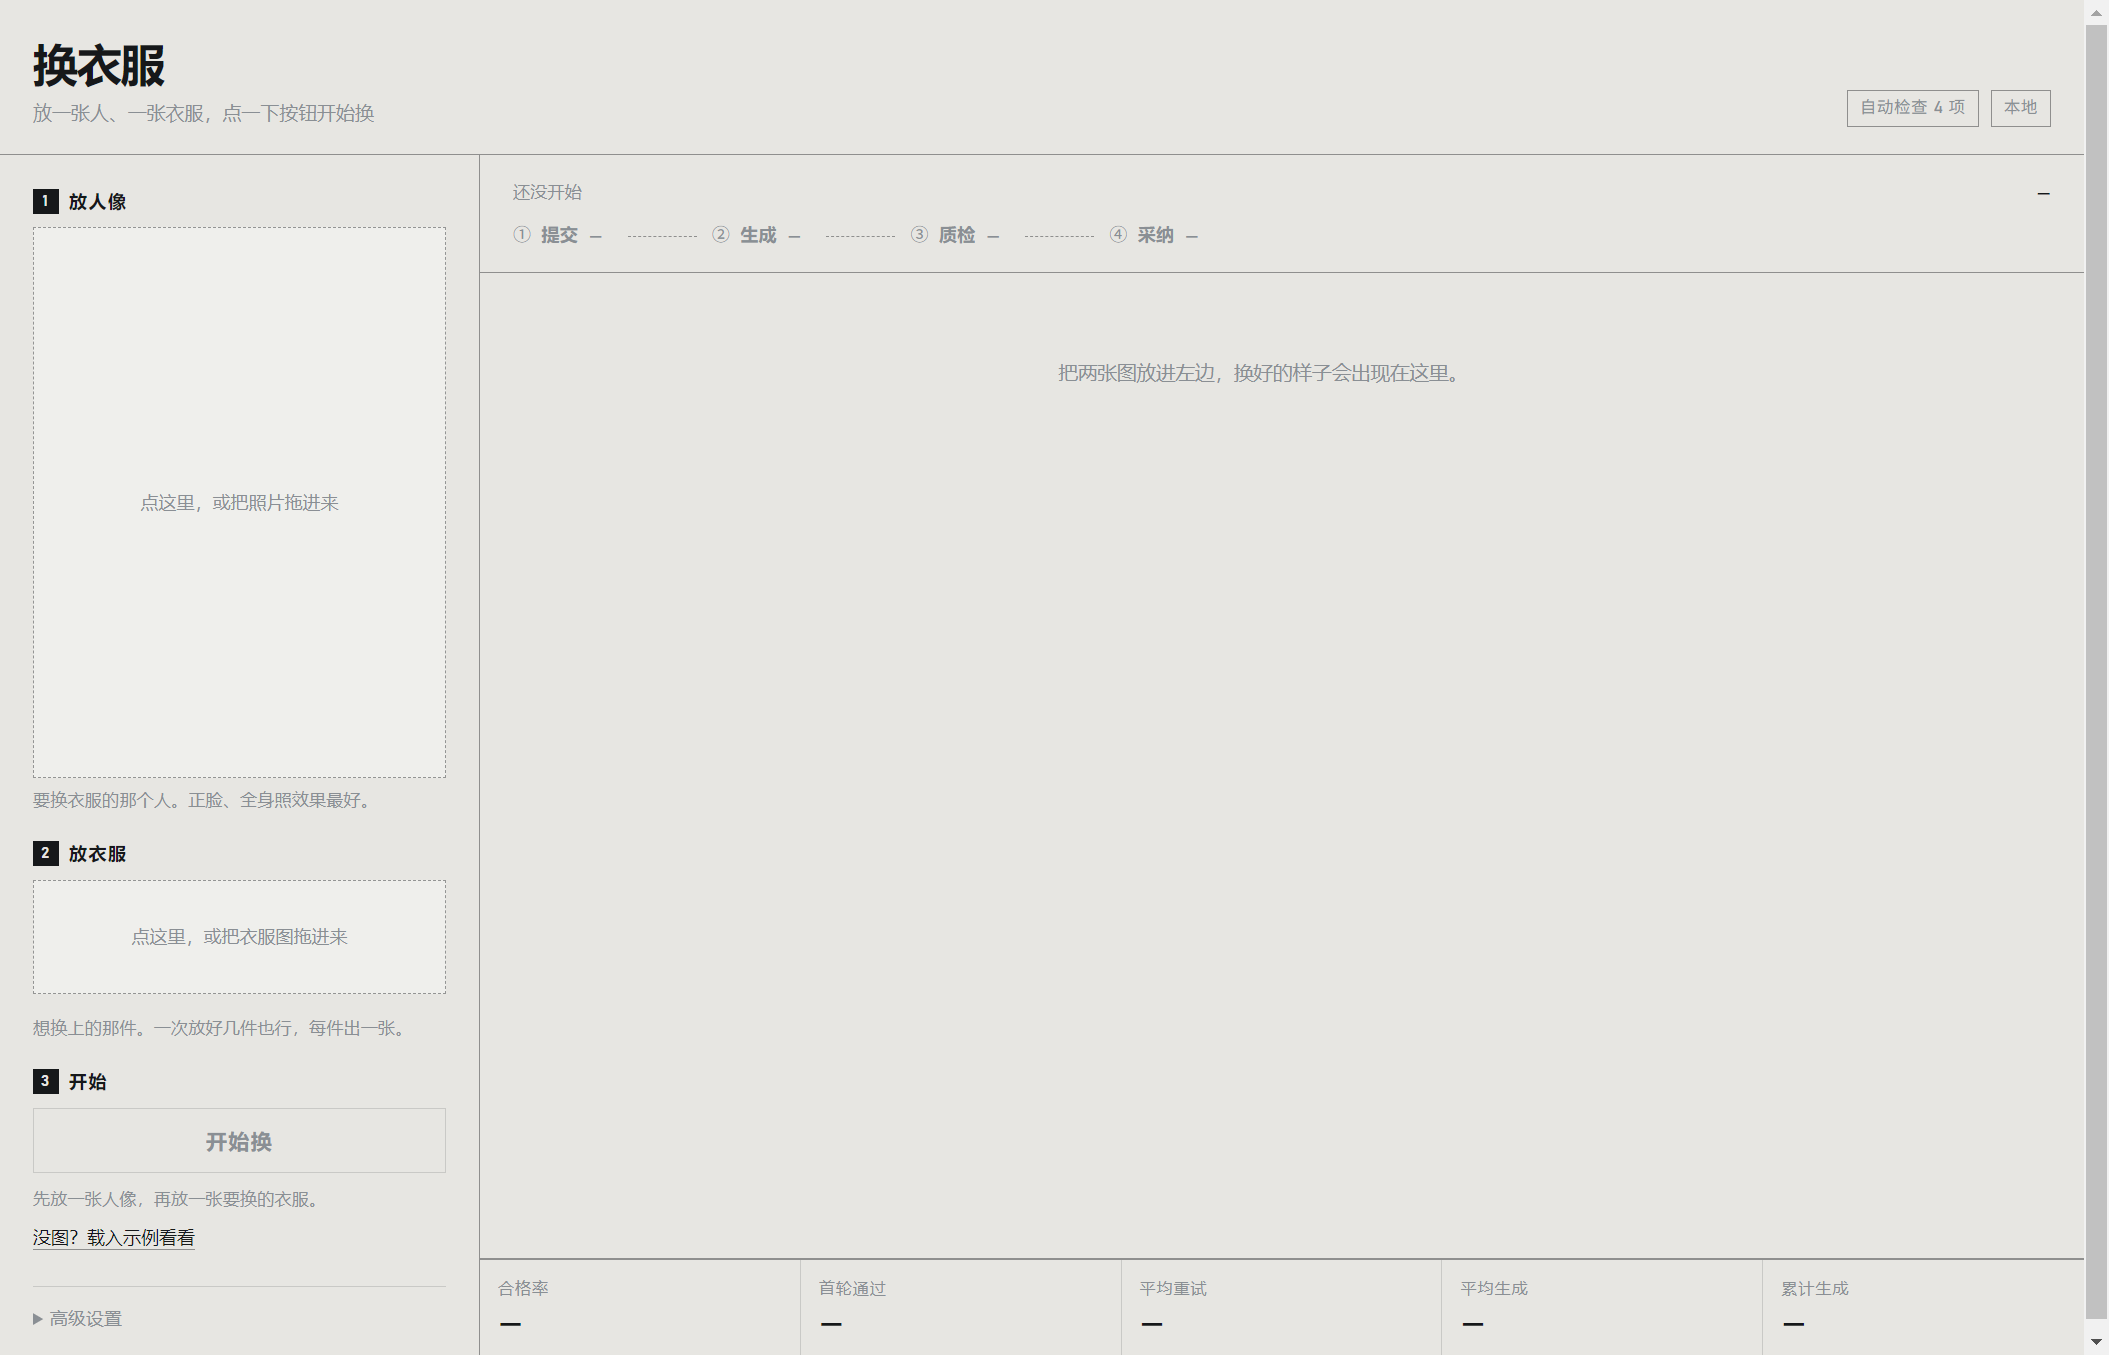
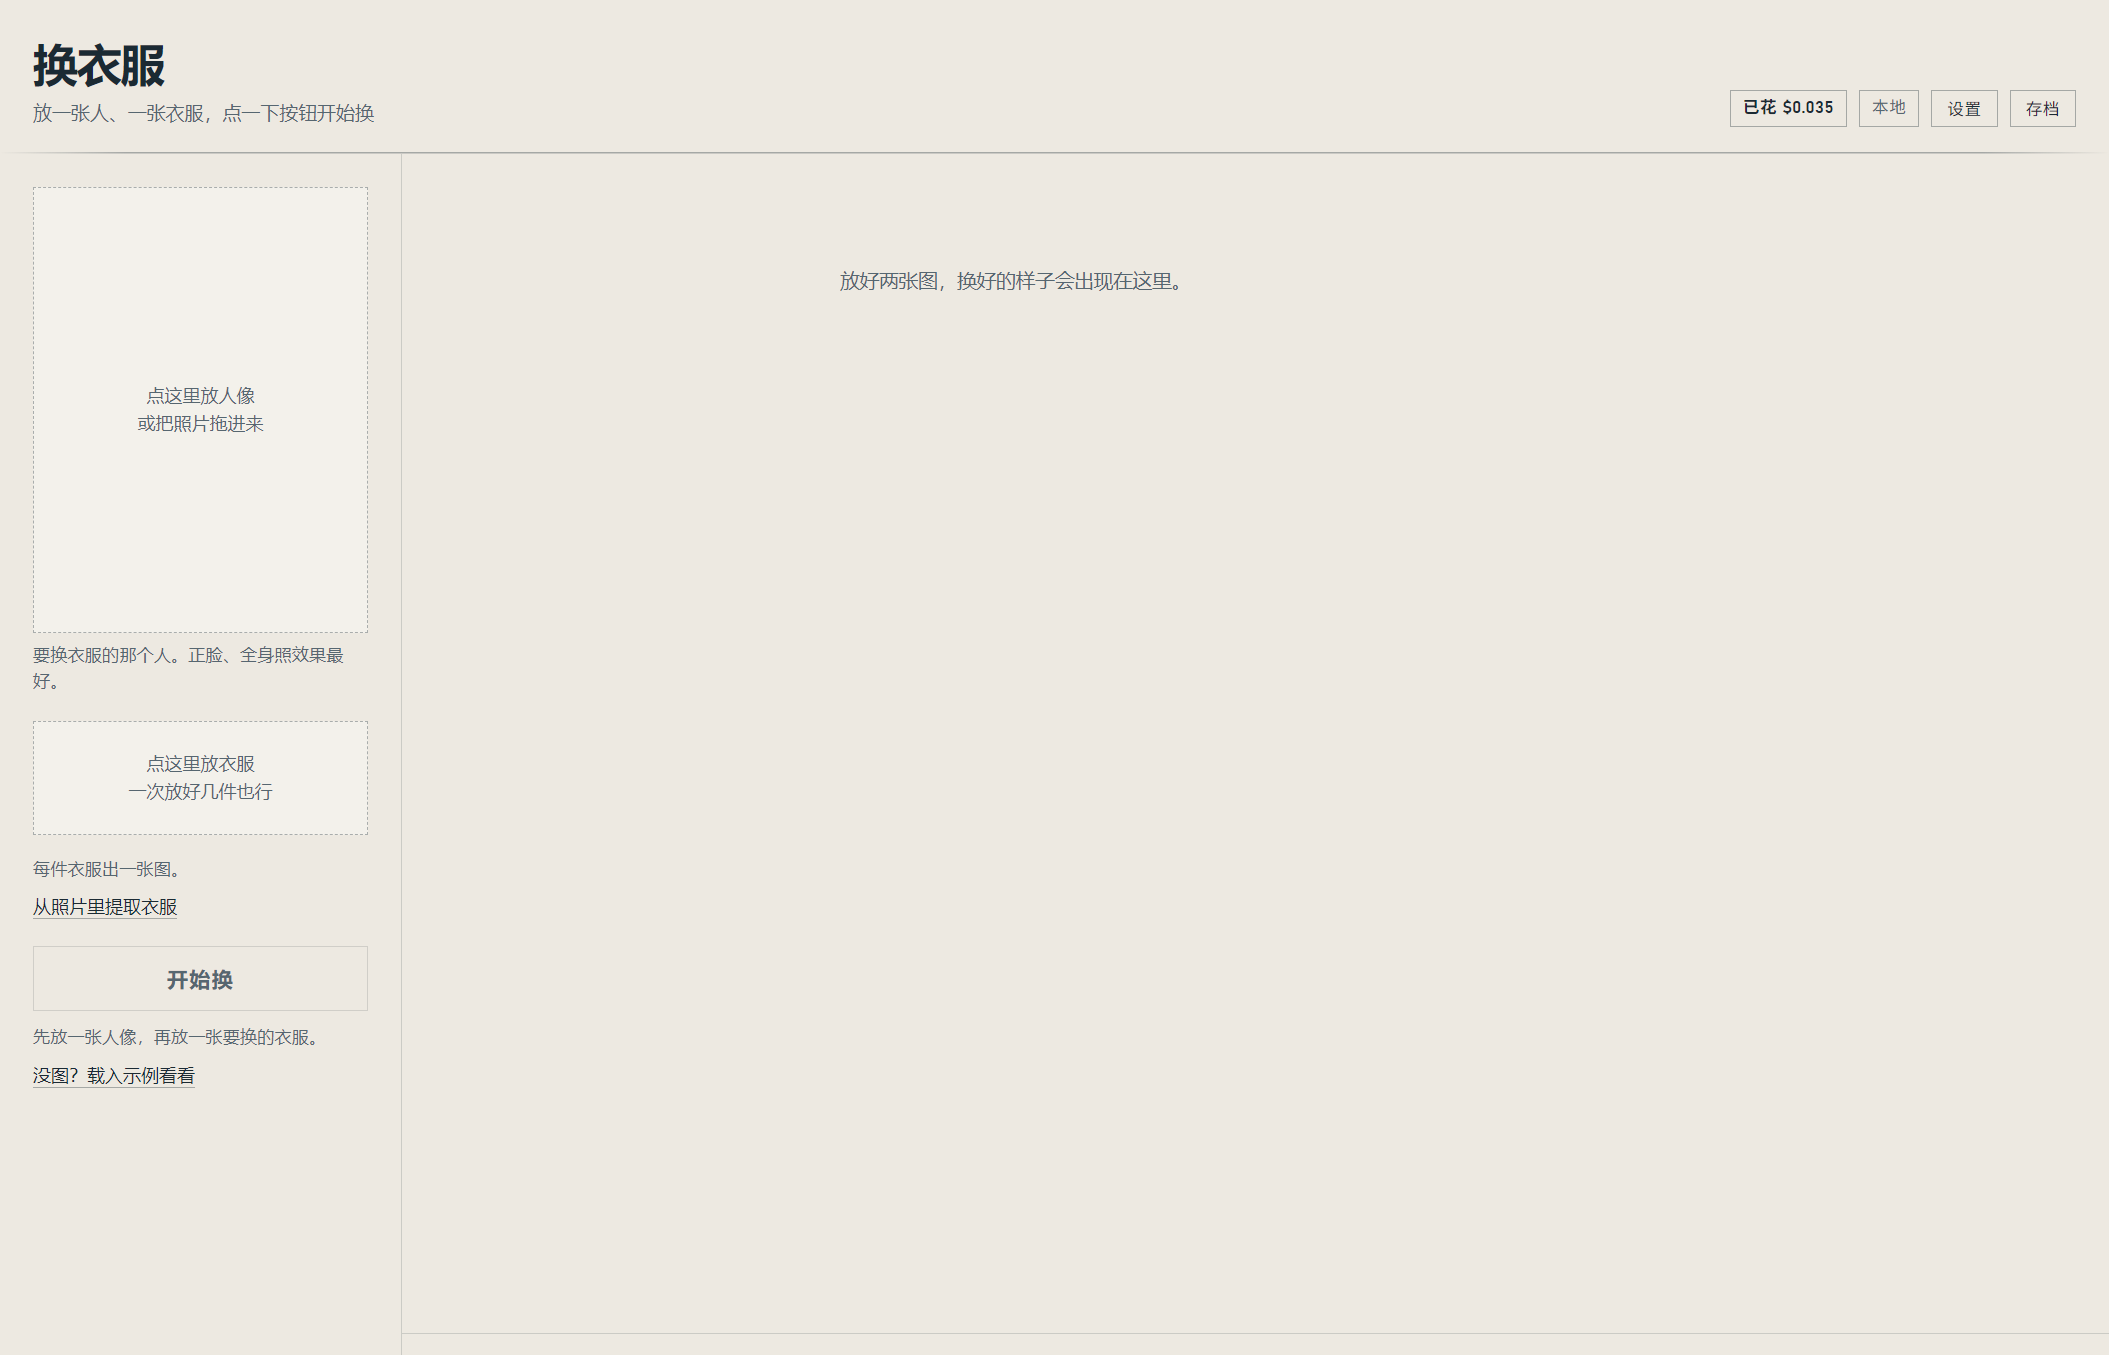
README 的图换成现在这版界面，顺手把提取衣服的测量结论落进 ROADMAP
- 旧的两张图拍在「只看结果」重做之前：工序列、指标带、高级设置都还在，跟现在的界面不是一回事。
  重拍网页版（?job=e7833ba2c47e，两件全过）和桌面版（electron --smoke，截图前要清 ELECTRON_RUN_AS_NODE）
- 新增 outputs/docket.png（点开结果的检验单）和 outputs/demo.gif：
  22 秒、1.7MB，真跑的两件衣服，中间 50 秒等待剪掉，其余没加速
- ROADMAP 记录提取衣服的三种改法都量过（u2net_cloth_seg / 软 alpha / 提高解析分辨率），
  没有一致提升，这一项收口

diff --git a/ROADMAP.md b/ROADMAP.md
@@ -181,6 +181,38 @@ Electron 那部分进 asar，Python 那部分（`app/`、`web/`、`run.py`、`co
 **留下的问题**：边缘是语义掩码的精度——毛领、条纹、被手或头发挡住的地方会缺块；外套加内搭只取最外层；白衣服配白底没有轮廓线。
 再往上要换专门的抠图模型（rembg 的 `u2net_cloth_seg`，MIT），`extract()` 的输入输出不变，上层不用动。
 
+### 提取衣服的边缘：量了三种改法，都不划算（2026-10-30 下午）
+
+**要解决**：上面留下的问题——边缘受语义掩码精度限制，所以先试「换专门的抠图模型」这条路。
+
+**五张人像先量再改**（`samples/` 两张、`bench/` 两张、原始 PNG 一张）：
+
+1. **换 rembg 的 `u2net_cloth_seg`（MIT，176MB ONNX，`cv2.dnn` 直接跑，零新依赖）**
+   与 SegFormer 掩码的 IoU：白底人像 0.98、羽绒服 0.98、护士服 0.99；
+   但白 T 恤加黑短裤那张只有 0.73——SegFormer 把短裤也抠出来了，u2net 漏了下半身。
+   被手挡住的内洞一张更少（6579px → 2421px）、一张更多（1026px → 3695px），没有一致更好。
+   单张 0.95s vs 0.5–0.9s，还多 176MB 权重。**不换。**
+2. **软 alpha**（garment 类 softmax 求和，替掉 argmax 硬掩码）
+   头发、毛领一类边缘会变成半透明灰雾，白底图上比硬掩码难看：半透明像素 9508 → 30765 个。**不用。**
+3. **把人像解析的输入分辨率从 512 提到 768 / 1024**
+   1024 时边缘反而更毛（周长/面积 0.0052 → 0.0058），护士服那张还会多出一块孤立白斑（被误判成衣服）；
+   耗时 0.49s → 2.41s。**不提。**
+
+**结论**：现在的链路（argmax 掩码 → 收 1px → 羽化 → 白底 → 按衣服框裁）已经是这个模型的稳态，
+再往上只能换真正的人像抠图模型，不是调参能解决的。这一项到此为止，不留 TODO。
+许可上 `u2net_cloth_seg` 确实更宽松（MIT vs NVIDIA 非商业），但为此背 176MB 权重和更慢的推理不值；
+真要商用那天再换，`extract()` 的接口已经留好。
+
+---
+
+## README 配图（2026-10-30 下午）
+
+README 里那两张图拍的是旧界面：`outputs/page.png` 停在「从照片里提取衣服」那一行加进来之前，
+`outputs/electron-window.png` 还是 10-29 的版本（工序列、指标带、「高级设置」都还在，跟「只看结果」重做后的界面不是一回事）。
+
+重拍：网页版用 `?job=e7833ba2c47e` 截了一次两件全通过的真实任务，桌面版用 `electron . --smoke` 重出（截图前要清掉 `ELECTRON_RUN_AS_NODE`，这个会话环境里就是 1，不清会一闪就退）。
+另加一张「点开结果看检验单」和一段 22 秒的演示动图：真跑的一次两件衣服，中间等生成的 50 秒剪掉了，其余没加速；Playwright 录屏、ffmpeg 转 GIF，800×500、1.7MB。
+
 ---
 
 ## 明确不做

diff --git a/README.md b/README.md
@@ -26,6 +26,10 @@
 
 ![界面](outputs/page.png)
 
+![从放两张图到点开检验单](outputs/demo.gif)
+
+上面这一段是真跑的一次（两件衣服，中间等生成的部分剪掉了，其余没加速）。
+
 ---
 
 ## 它解决的问题
@@ -77,6 +81,8 @@
 文字水印、手指粘连**判不了就不列**。列进去必然是一排"—"，看起来像坏了，实际上什么都没说。
 
 手这一项能做的只是"数得清"：原图 2 只手、结果 1 只，报错。整只手糊成一团时复核置信度会掉下来，也能抓到（实测 0.52 那只）；但多一根手指、少一根这种局部错误判不出来。所以它叫「手还在」，不叫「手部结构合格」。同理，手套、插兜、手不在画面里的时候原图就检不出手，这一项直接返回 null，不算通过也不算失败。
+
+![点开结果看检验单](outputs/docket.png)
 
 ### 2. 从所有尝试里挑最好的一张，不是"通过了就用最后一张"
 

diff --git a/HANDOFF.md b/HANDOFF.md
@@ -33,7 +33,7 @@
 
 ## 现在的状态
 
-43 个提交，工作区和 origin 同步。已完成：本地串行队列、云端接百炼、设置抽屉、花费统计、界面简化（两个槽一个按钮）、点开看大图、从照片里提取衣服。
+45 个提交，本地比 origin 多 2 个（GitHub 走 127.0.0.1:6134 代理，2026-10-30 下午代理节点断着没推上去；网络恢复后双击 `推送.bat` 补推）。已完成：本地串行队列、云端接百炼、设置抽屉、花费统计、界面简化（两个槽一个按钮）、点开看大图、从照片里提取衣服、README 配图换成现在这版界面（网页 + 桌面 + 检验单 + 22 秒演示动图）。
 
 三件明确没做，都在 `ROADMAP.md` 末尾：
 
